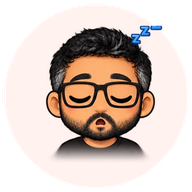
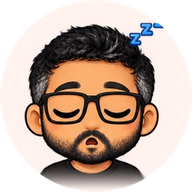
Kamran fills the reminder circle; a sad 'missing you' face when behind
Faces are cropped tight to the head. The behind-on-a-day reminder uses a new
face: eyes closed, a tear and a small rain cloud.

diff --git a/src/lib/reminders.ts b/src/lib/reminders.ts
@@ -44,11 +44,11 @@ export interface Reminder {
   tag: string;
   /** Only the morning reminder sounds; later ones replace it quietly. */
   loud: boolean;
-  /** Kamran's face for the moment: excited, surprised, sleepy, or worried when behind. */
+  /** Kamran's face for the moment: excited, surprised, sleepy, or missing you when behind. */
   icon: string;
 }
 
-const face = (mood: "excited" | "surprised" | "sleepy" | "worried") => `/mascots/kamran-${mood}-192.png`;
+const face = (mood: "excited" | "surprised" | "sleepy" | "missing") => `/mascots/kamran-${mood}-192.png`;
 
 type Copy = Pick<Reminder, "title" | "body">;
 const pick = <T,>(list: T[], seed: number) => list[Math.abs(seed) % list.length];
@@ -59,7 +59,7 @@ export function buildReminder(r: ReminderInput): Reminder | null {
 
   const url = `/learn/day/${r.behind ? r.day - 1 : r.day}`;
   const tag = `day-${r.day}`; // later reminders replace earlier ones, never pile up
-  const icon = face(r.behind ? "worried" : r.slot === "morning" ? "excited" : r.slot === "midday" ? "surprised" : "sleepy");
+  const icon = face(r.behind ? "missing" : r.slot === "morning" ? "excited" : r.slot === "midday" ? "surprised" : "sleepy");
   const done = (c: Copy): Reminder => ({ ...c, url, tag, loud: r.slot === "morning", icon });
 
   const n = r.name;

diff --git a/tests/reminders.test.ts b/tests/reminders.test.ts
@@ -70,5 +70,5 @@ test("Kamran's face matches the moment", () => {
   assert.equal(at("morning"), "/mascots/kamran-excited-192.png");
   assert.equal(at("midday"), "/mascots/kamran-surprised-192.png");
   assert.equal(at("night"), "/mascots/kamran-sleepy-192.png");
-  assert.equal(at("night", true), "/mascots/kamran-worried-192.png");
+  assert.equal(at("night", true), "/mascots/kamran-missing-192.png");
 });
